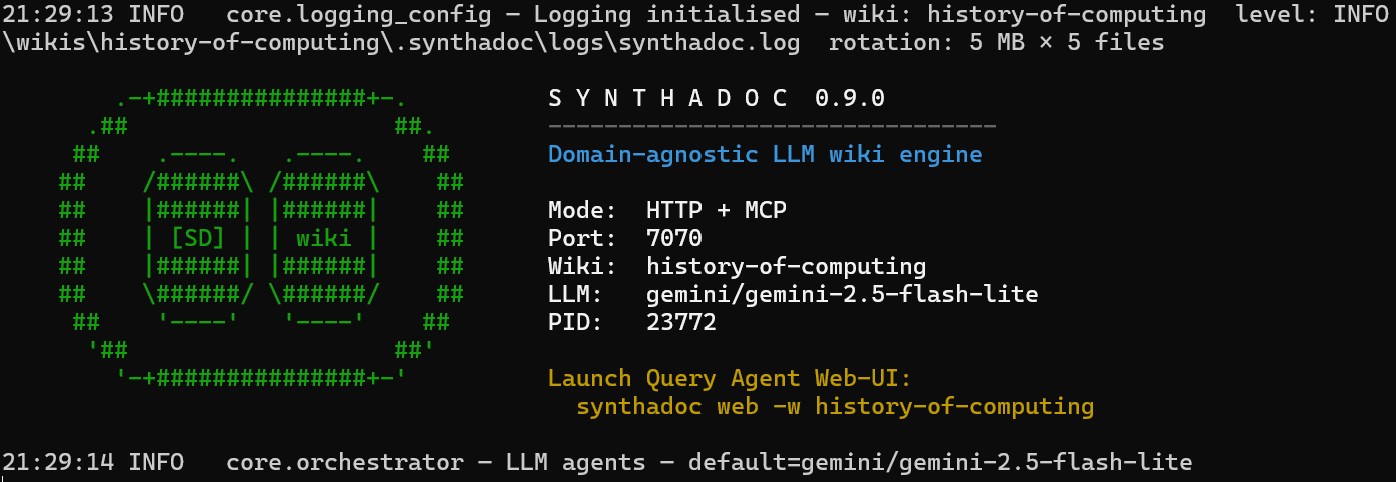
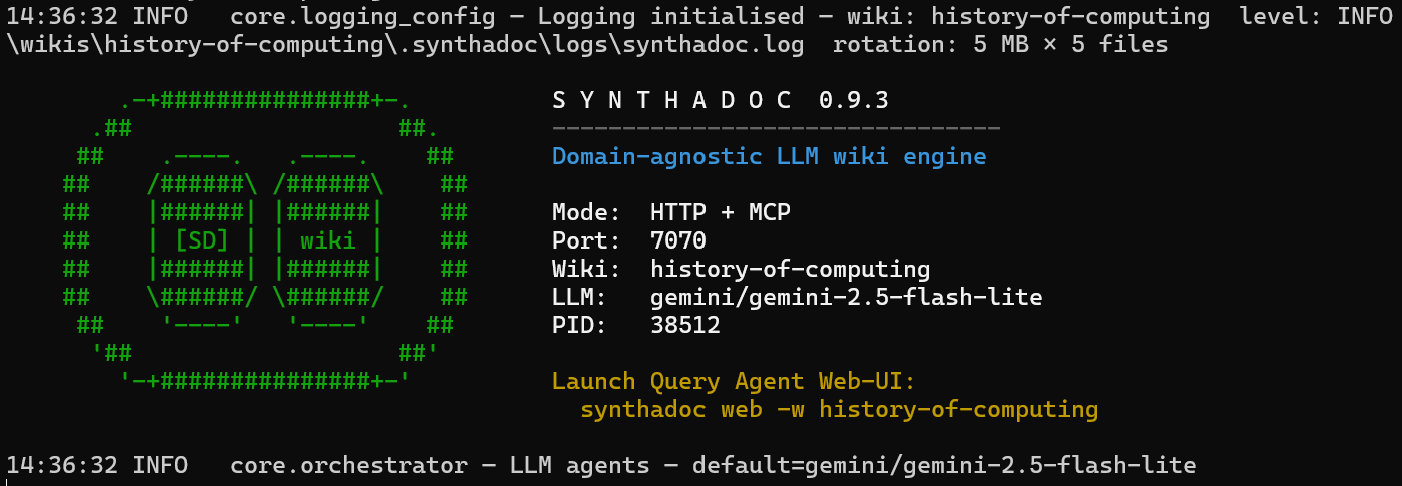
chore: bump to v0.9.3 - fix PyPI readme links (#171)
* docs: remove Linux/macOS qualifier from performance benchmarks note

* docs: rewrite plugin dev steps — add npm run build and sync_plugin.py, fix order

* docs: remove commit instruction from plugin dev steps

* docs: remove CI note from plugin dev steps

* docs: update quick-start prereq to reference Installation section, not numbered steps

* docs: clarify server URL is auto-configured; re-run plugin install if port changes

* demo: expand purpose.md scope to cover all shipped sources — quantum, internet, AI, open source

* fix(backup): include all *.txt files at wiki root, not just sources.txt

* test(backup): verify all *.txt files at wiki root are backed up and restored

* docs: update backup included files — sources.txt → any *.txt batch ingest files

* docs: remove manual Server URL update step — restore auto-configures it via plugin install

* docs: add backup and restore to CLI command tree in design.md

* docs: add 5 missing error codes to design.md — WIKI-007, PROV-001/002, QUERY-001, AGENT-001

* docs: fix and expand Section 12 Cache System — correct Layer 1, add Layer 3 query cache

* docs: fix Section 13 Cost Guard — correct wiring status, add claude-opus-4-7 to pricing table

* test: fix test_traces_written_to_file and add observability coverage — 4 new telemetry unit tests + live log check

* docs: fix Section 17 Plugin Development Guide — correct provider API, add hook events/config, fix skill paths
[…]

diff --git a/scripts/prepare_pypi_readme.py b/scripts/prepare_pypi_readme.py
@@ -1,0 +1,58 @@
+#!/usr/bin/env python3
+"""Generate README-pypi.md for PyPI publishing.
+
+Transforms README.md by:
+  - Stripping <!-- pypi-strip-start --> ... <!-- pypi-strip-end --> blocks
+  - Rewriting relative doc links to absolute GitHub blob URLs
+  - Rewriting relative image paths to raw.githubusercontent.com URLs
+
+Run before `python -m build`:
+    python scripts/prepare_pypi_readme.py
+"""
+import re
+from pathlib import Path
+
+GITHUB_BLOB = "https://github.com/axoviq-ai/synthadoc/blob/main/"
+GITHUB_RAW = "https://raw.githubusercontent.com/axoviq-ai/synthadoc/main/"
+
+
+def transform(content: str) -> str:
+    # Strip <!-- pypi-strip-start --> ... <!-- pypi-strip-end --> blocks
+    content = re.sub(
+        r"\n?<!-- pypi-strip-start -->.*?<!-- pypi-strip-end -->\n?",
+        "\n",
+        content,
+        flags=re.DOTALL,
+    )
+
+    # Rewrite inline images with relative paths → raw.githubusercontent.com
+    # Must run before doc-link rewrite to avoid double-replacing image hrefs
+    content = re.sub(
+        r"!\[([^\]]*)\]\((docs/[^)]+)\)",
+        lambda m: f"![{m.group(1)}]({GITHUB_RAW}{m.group(2)})",
+        content,
+    )
+
+    # Rewrite relative doc links → github.com blob URLs
+    content = re.sub(
+        r"\]\((docs/[^)]+)\)",
+        lambda m: f"]({GITHUB_BLOB}{m.group(1)})",
+        content,
+    )
+    content = re.sub(
+        r"\]\(CONTRIBUTING\.md([^)]*)\)",
+        lambda m: f"]({GITHUB_BLOB}CONTRIBUTING.md{m.group(1)})",
+        content,
+    )
+
+    # Collapse excess blank lines left by stripped blocks
+    content = re.sub(r"\n{3,}", "\n\n", content)
+
+    return content
+
+
+if __name__ == "__main__":
+    src = Path("README.md").read_text(encoding="utf-8")
+    out = transform(src)
+    Path("README-pypi.md").write_text(out, encoding="utf-8")
+    print("README-pypi.md generated successfully.")

diff --git a/README.md b/README.md
@@ -14,7 +14,7 @@
       '-+###############+-'
 
        S Y N T H A D O C
-    Community Edition  v0.9.2
+    Community Edition  v0.9.3
   ────────────────────────────────
   Domain-agnostic LLM wiki engine
 ```
@@ -28,9 +28,9 @@
 [![CLI](https://img.shields.io/badge/dynamic/json?url=https%3A%2F%2Fraw.githubusercontent.com%2Faxoviq-ai%2Fsynthadoc%2Fbadges%2Fdocs%2Fbadges.json&query=%24.cli_commands&label=CLI%20commands&color=darkblue)](https://github.com/axoviq-ai/synthadoc)
 [![Obsidian](https://img.shields.io/badge/dynamic/json?url=https%3A%2F%2Fraw.githubusercontent.com%2Faxoviq-ai%2Fsynthadoc%2Fbadges%2Fdocs%2Fbadges.json&query=%24.obsidian_commands&label=Obsidian%20commands&color=blueviolet)](https://github.com/axoviq-ai/synthadoc/tree/main/obsidian-plugin)
 [![MCP](https://img.shields.io/badge/dynamic/json?url=https%3A%2F%2Fraw.githubusercontent.com%2Faxoviq-ai%2Fsynthadoc%2Fbadges%2Fdocs%2Fbadges.json&query=%24.mcp_tools&label=MCP%20tools&color=orange)](https://github.com/axoviq-ai/synthadoc/blob/main/docs/user-quick-start-guide.md#appendix-i--connect-claude-via-mcp)
-[![Version](https://img.shields.io/badge/Community%20Edition-v0.9.2-brightgreen.svg)](https://github.com/axoviq-ai/synthadoc)
+[![Version](https://img.shields.io/badge/Community%20Edition-v0.9.3-brightgreen.svg)](https://github.com/axoviq-ai/synthadoc)
 
-**Document version: v0.9.2**
+**Document version: v0.9.3**
 
 **Engineered for solo users and enterprises alike, providing a domain-specific knowledge base that scales seamlessly while maintaining accuracy through autonomous self-optimization.**
 
@@ -1198,7 +1198,12 @@ For full examples, API signatures, and intent-dispatch config see [docs/design.m
 
 ## Links
 
+<!-- pypi-strip-start -->
 - Blogs & Media: [docs/media/](docs/media/README.md) — DEV.to, Medium, Coderlegion, YouTube
+<!-- pypi-strip-end -->
 - Design document: [docs/design.md](docs/design.md)
 - Quick-Start Guide: [docs/user-quick-start-guide.md](docs/user-quick-start-guide.md)
+<!-- pypi-strip-start -->
 - Contributing: [CONTRIBUTING.md](CONTRIBUTING.md)
+<!-- pypi-strip-end -->
+- GitHub: [axoviq-ai/synthadoc](https://github.com/axoviq-ai/synthadoc)

diff --git a/docs/design.md b/docs/design.md
@@ -1,6 +1,6 @@
 # Synthadoc — Design Document
 
-**Version:** 0.9.2  
+**Version:** 0.9.3  
 **Audience:** Product users who want to understand how the system works; developers adding features, skills, and plugins.
 
 **Document owners:** Paul Chen, William Johnason

diff --git a/docs/user-quick-start-guide.md b/docs/user-quick-start-guide.md
@@ -1,6 +1,6 @@
 # Synthadoc User Quick-Start Guide
 
-**Version: v0.9.2 (Community Edition)**
+**Version: v0.9.3 (Community Edition)**
 
 This guide walks you through the **History of Computing** demo wiki — a fully wired
 Synthadoc environment with 13 pre-built pages and six raw source files that cover every